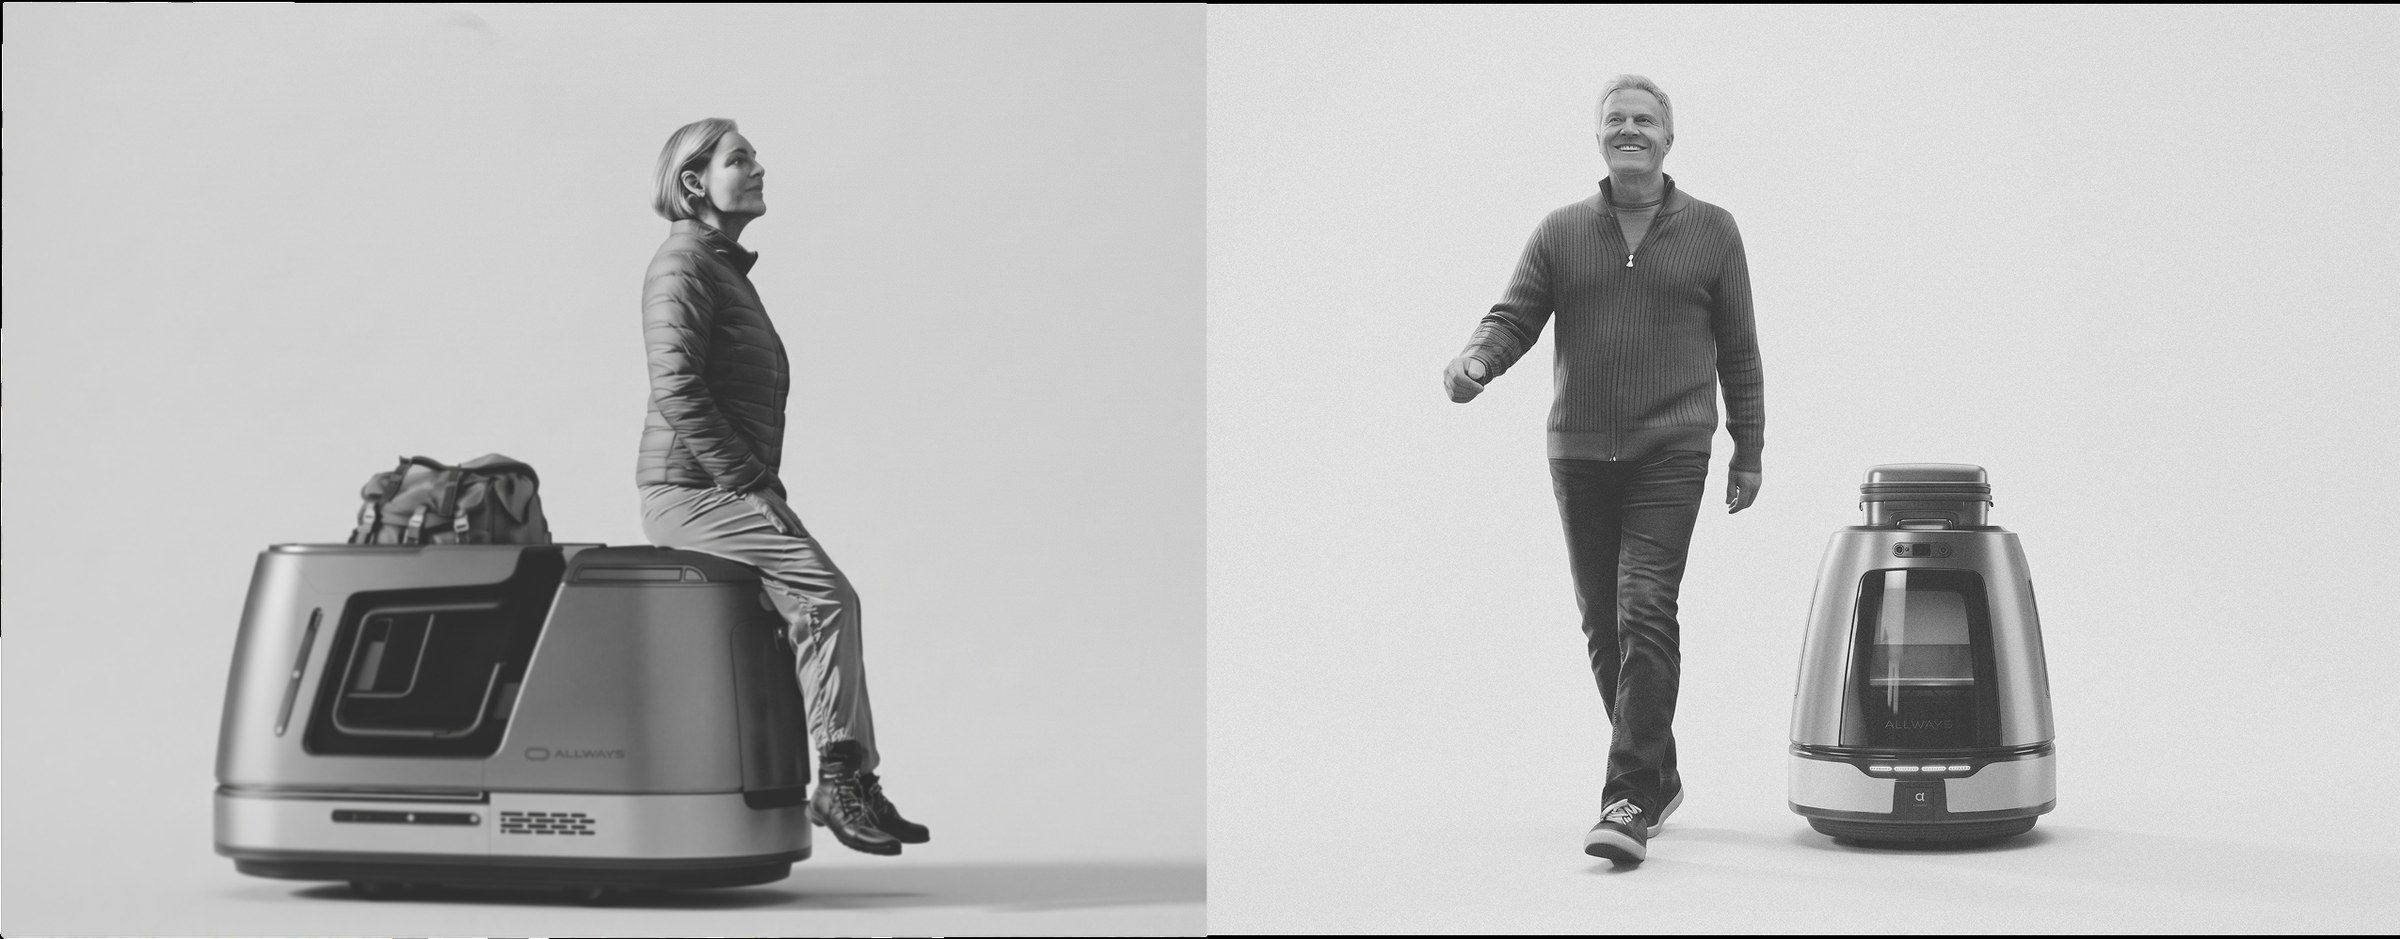
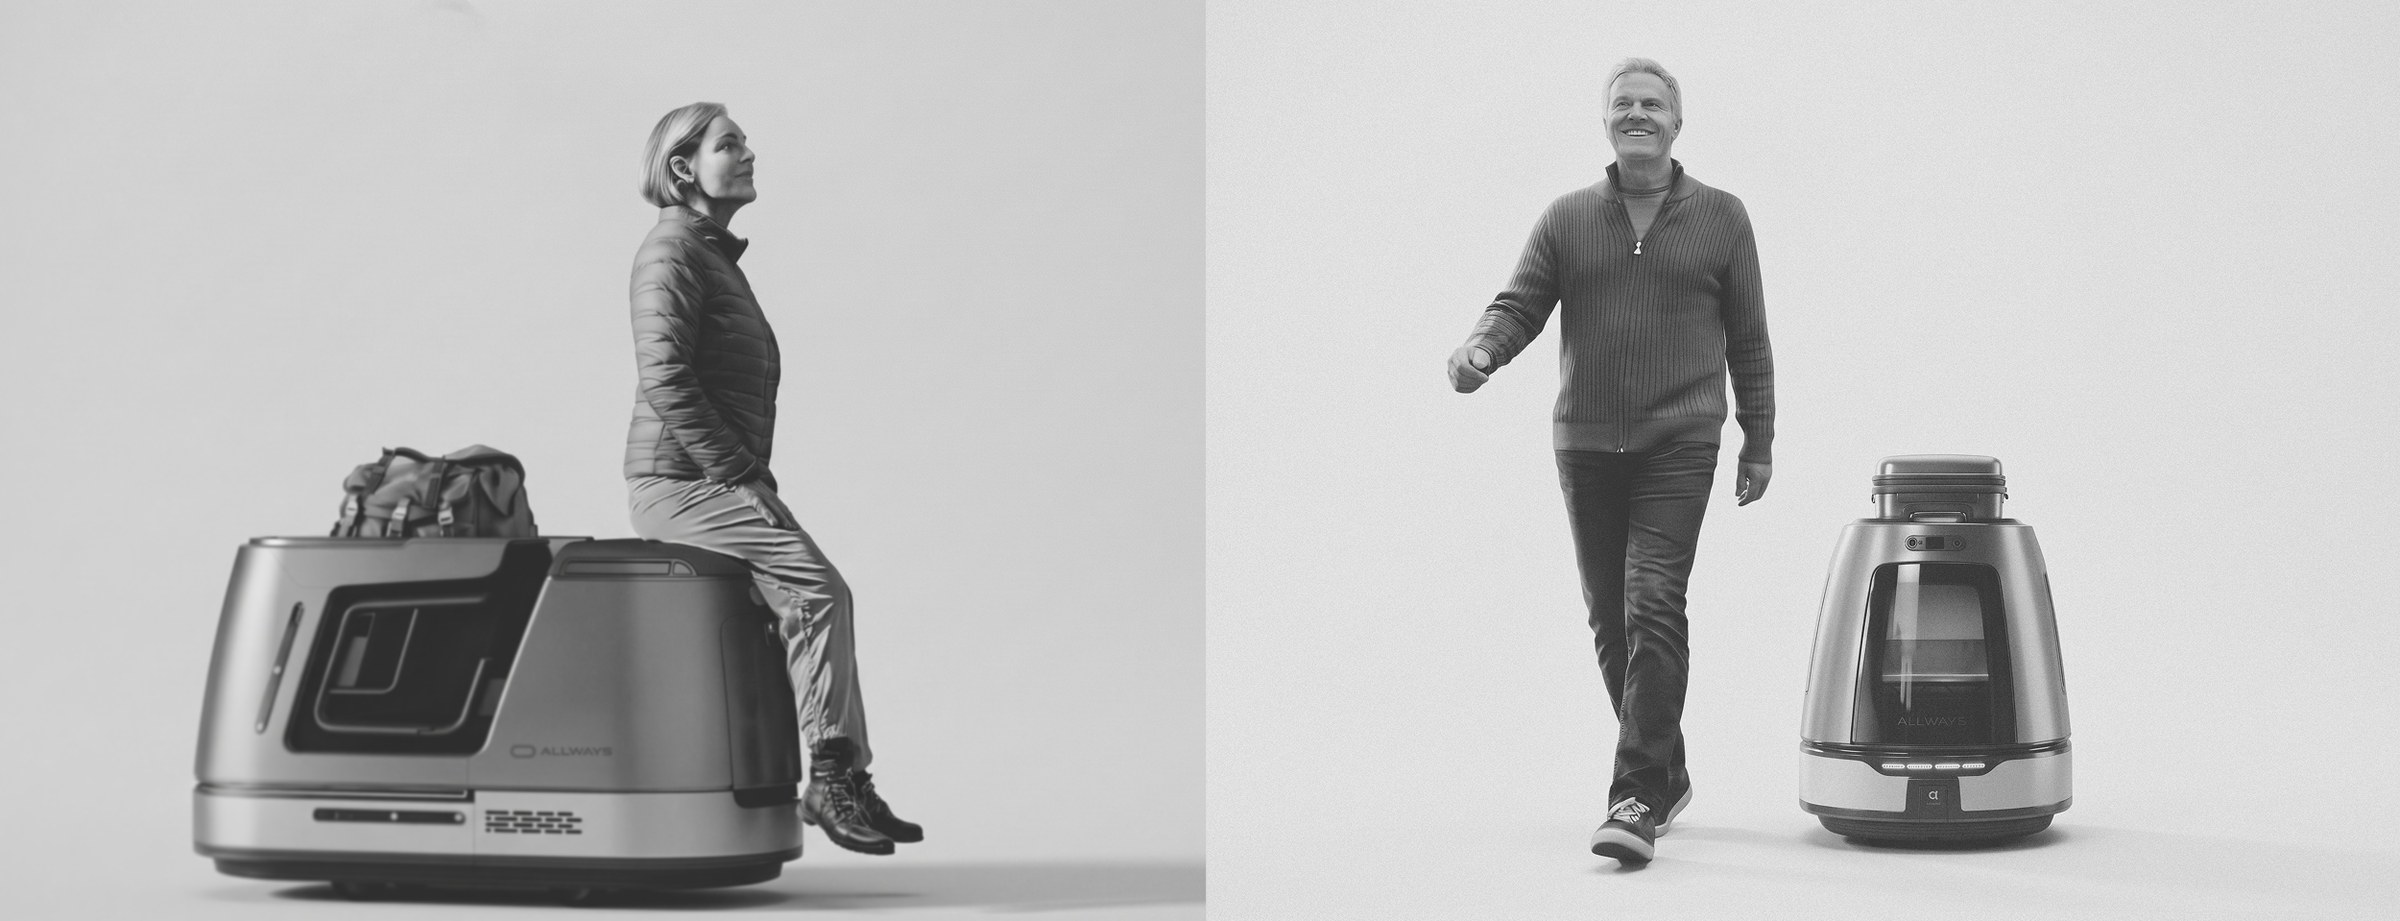
Replace ALLWAYS B&W two-shot image
Claude-Session: https://claude.ai/code/session_01DuSswWf5f4YisWgcdZdx4a

Changed region(s): [[0.0625, 0.0608, 1.0, 1.0], [0.0625, 0.0, 1.0, 0.0304], [0.0, 0.0, 0.0312, 0.0304]]

diff --git a/allways.html b/allways.html
@@ -30,7 +30,7 @@
 <img src="images/allways-4.jpg?v=1791860483" width="2400" height="1776" alt="ALLWAYS 이미지 2" loading="lazy">
 <img src="images/allways-3.jpg?v=1791860483" width="2400" height="1774" alt="ALLWAYS 이미지 3" loading="lazy">
 <img src="images/allways-7.jpg?v=1791860663" width="2400" height="2141" alt="ALLWAYS 이미지 4" loading="lazy">
-<img src="images/allways-1.jpg?v=1791860482" width="2400" height="939" alt="ALLWAYS 이미지 5" loading="lazy">
+<img src="images/allways-1.jpg?v=1791860846" width="2400" height="921" alt="ALLWAYS 이미지 5" loading="lazy">
 <img src="images/allways-6.jpg?v=1791860484" width="2400" height="846" alt="ALLWAYS 이미지 6" loading="lazy">
 <img src="images/allways-5.jpg?v=1791860484" width="2400" height="2182" alt="ALLWAYS 이미지 7" loading="lazy">
 </div>
